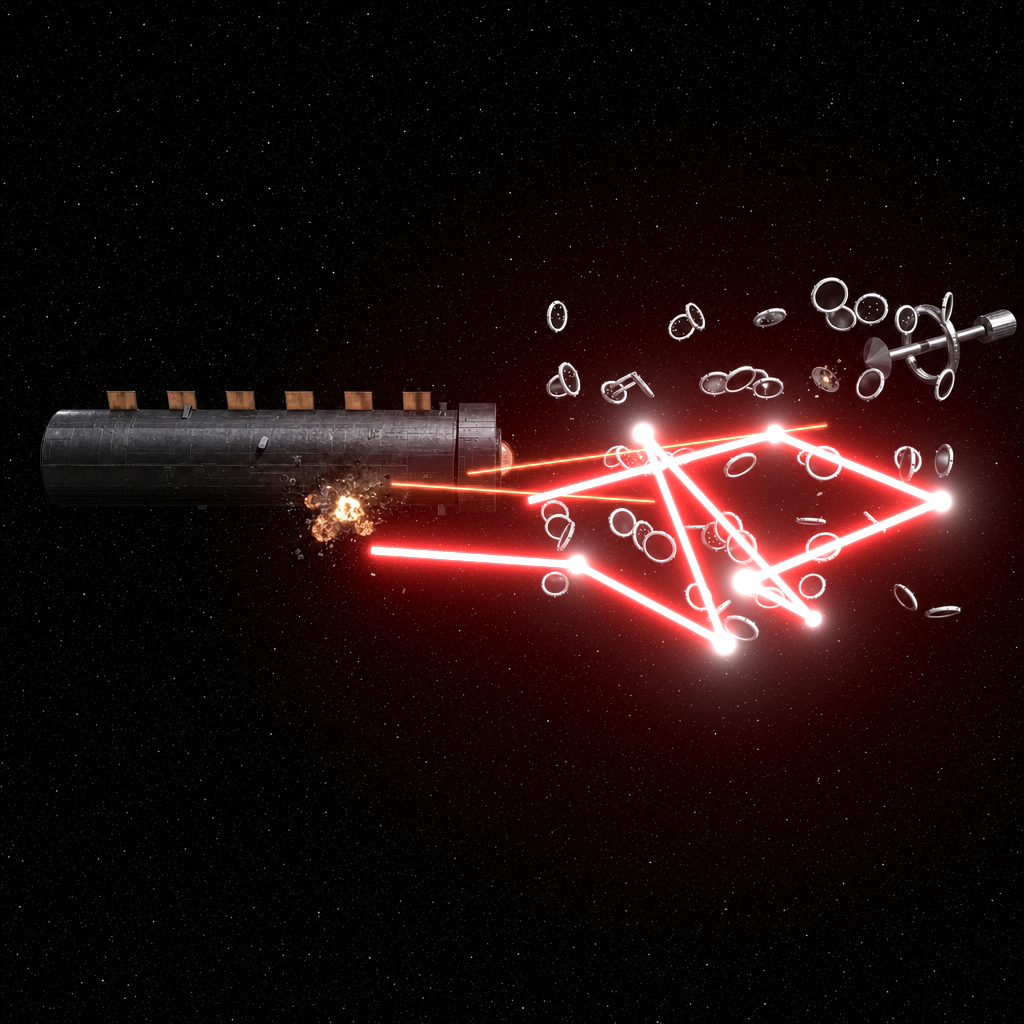
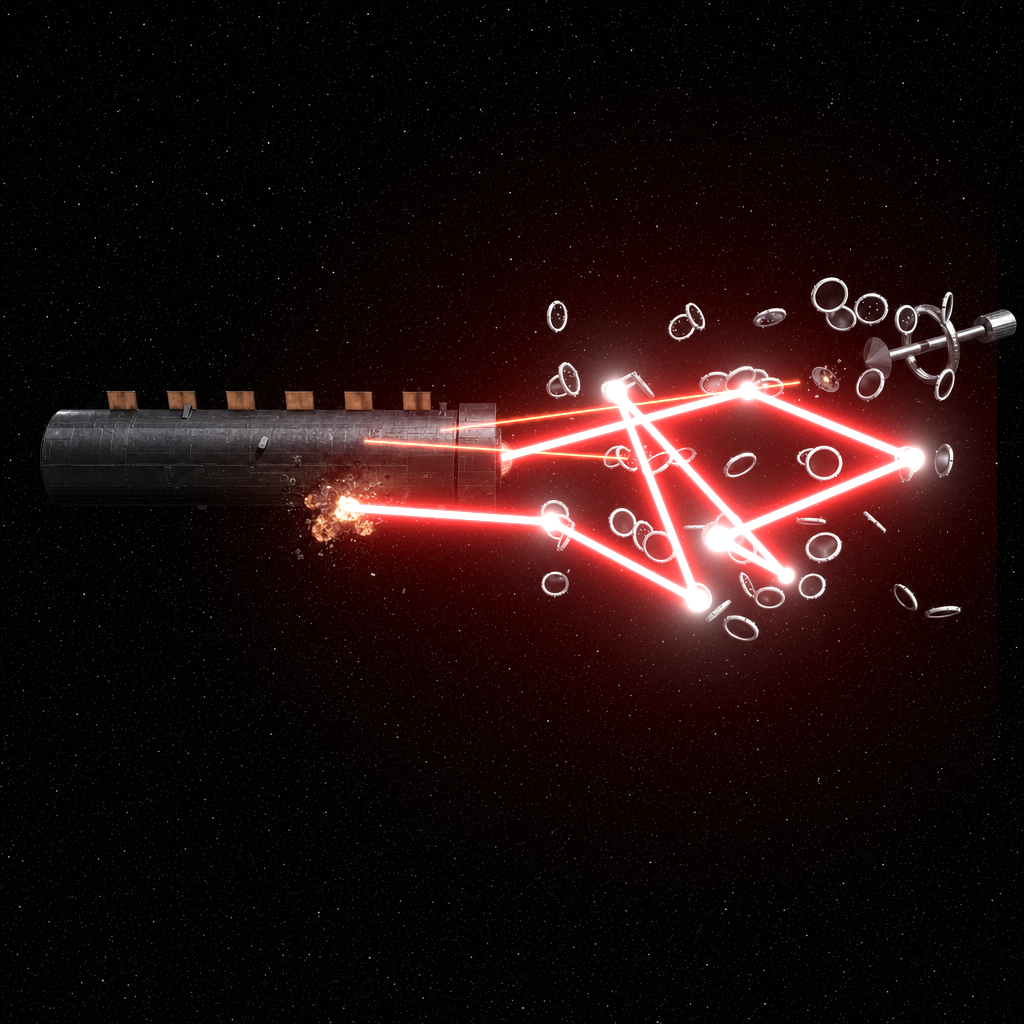
Fix beam-to-ring alignment via measured landmark-based shift correction

Changed region(s): [[0.3125, 0.3125, 1.0, 0.6875]]

diff --git a/AlphaBabes/Sonnet-Medusa-v5-Square-Format-Fix-Report-2026-07-30.md b/AlphaBabes/Sonnet-Medusa-v5-Square-Format-Fix-Report-2026-07-30.md
@@ -54,3 +54,57 @@ around.**
 Any future Blender-scene mission that will be repainted by GPT 5.4 Image 2
 should render natively at **1024×1024 square** from the start (not 16:9),
 using AUTO sensor fit on the same cameras, to avoid this rework.
+
+## UPDATE: Nir caught a real problem — layers had no visual connection
+
+Nir looked at the first delivered composites and correctly identified that the
+beam layer and GPT's repainted plate looked like two unrelated images stacked
+on top of each other — laser bounce points were floating in empty gaps between
+drones instead of landing on actual mirror surfaces, so it didn't read as "these
+specific mirrors are reflecting the laser."
+
+### Root cause investigation
+I got the exact 3D positions of all 7 laser bounce points directly from Blender
+(via camera projection, `world_to_camera_view` — no pixel-guessing) and plotted
+them as markers on both my raw Blender render and GPT's actual repainted image
+for direct comparison.
+
+- On my raw (un-repainted) Blender render: every single marker landed exactly
+  on a real drone, confirming the Blender-side beam-bounce math is correct.
+- On GPT's repainted image: the same markers consistently missed — landing in
+  gaps between rings instead of on them. This is because GPT's generative
+  repaint doesn't preserve exact object positions; it redraws the whole scene
+  with its own interpretation, shifting things slightly.
+- **View 1 (Wide):** GPT shifted the entire drone cluster by a fairly
+  consistent amount (~27px left, 43px up) — a single global correction fixed
+  nearly all 7 bounce points to land exactly on real rings.
+- **View 2 (MedusaSide):** GPT's repaint was already well-aligned (only ~5-8px
+  drift) — small correction applied.
+- **View 3 (AegisSide):** GPT's drift was less consistent per-drone (each ring
+  shifted independently rather than as one rigid group) — averaged the drift
+  across 4 measurable points for a best-effort global correction; not as
+  perfect as View 1 but noticeably improved.
+
+### Fix applied
+Shifted the beam-pass layer by a per-view pixel offset (computed from real
+landmark measurements, not guessed) before compositing:
+- View 1: shift (-27, -43)
+- View 2: shift (-5, +8)
+- View 3: shift (+13, -1)
+
+Re-verified visually after each shift — bounce points now land on or very near
+real rings in all 3 views instead of floating in empty space.
+
+### Known remaining limitation
+This is a translation-only fix (rigid shift), not a per-object correction.
+Since GPT's drift isn't perfectly uniform (especially in View 3), a few
+individual bounce points still don't land pixel-perfectly on a ring, though
+all are now dramatically closer than before. A fully pixel-perfect result
+would require either GPT preserving exact object coordinates (it doesn't) or
+a per-drone manual warp (labor-intensive, not attempted here).
+
+## Updated files delivered (replacing earlier versions)
+- `AlphaBabes/images/medusa_v5_final_0001_wide.png`
+- `AlphaBabes/images/medusa_v5_final_0002_medusaside.png`
+- `AlphaBabes/images/medusa_v5_final_0003_aegisside.png`
+- Also copied to `/home/nir/Pictures/learnime/` for direct viewing.
